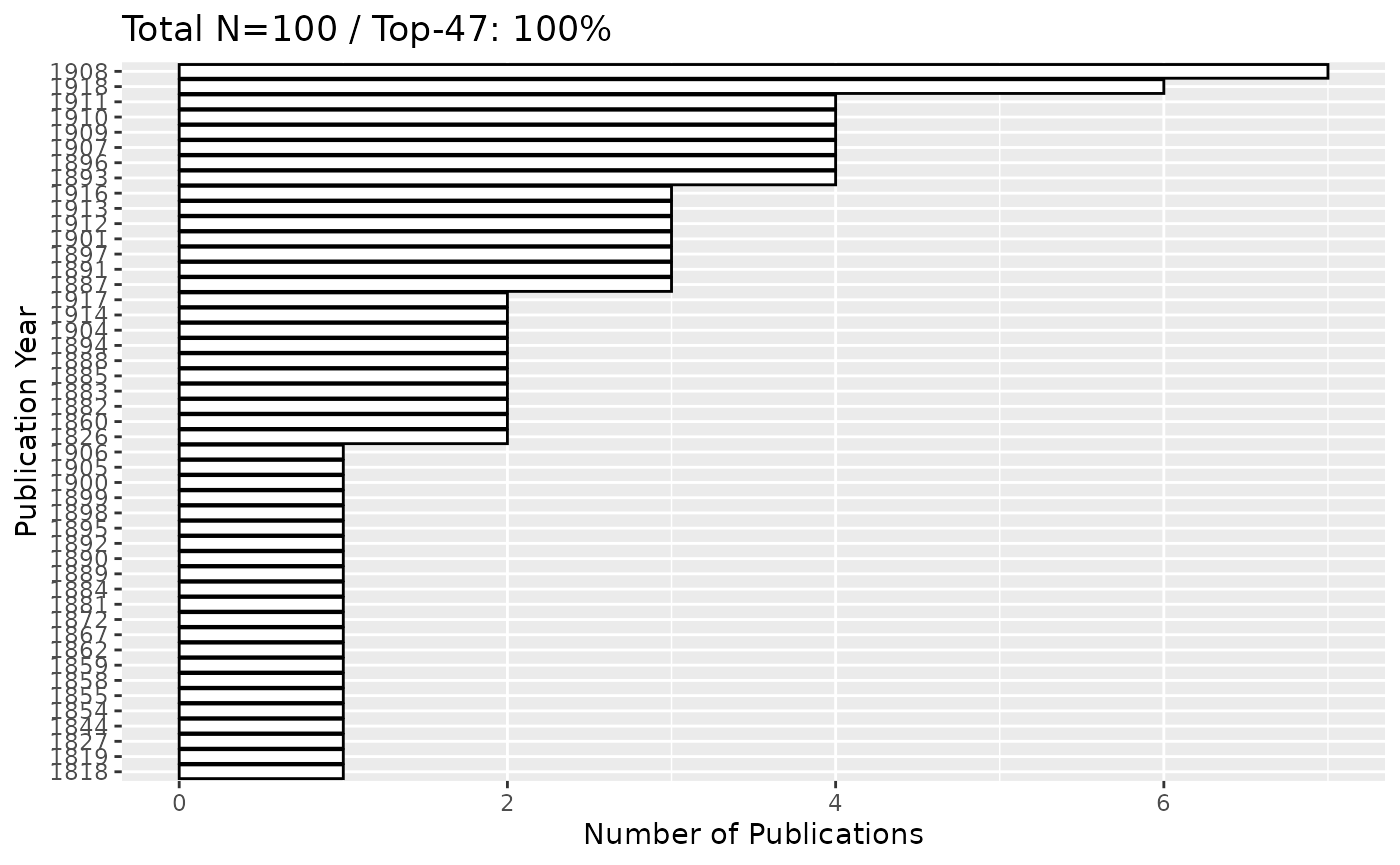
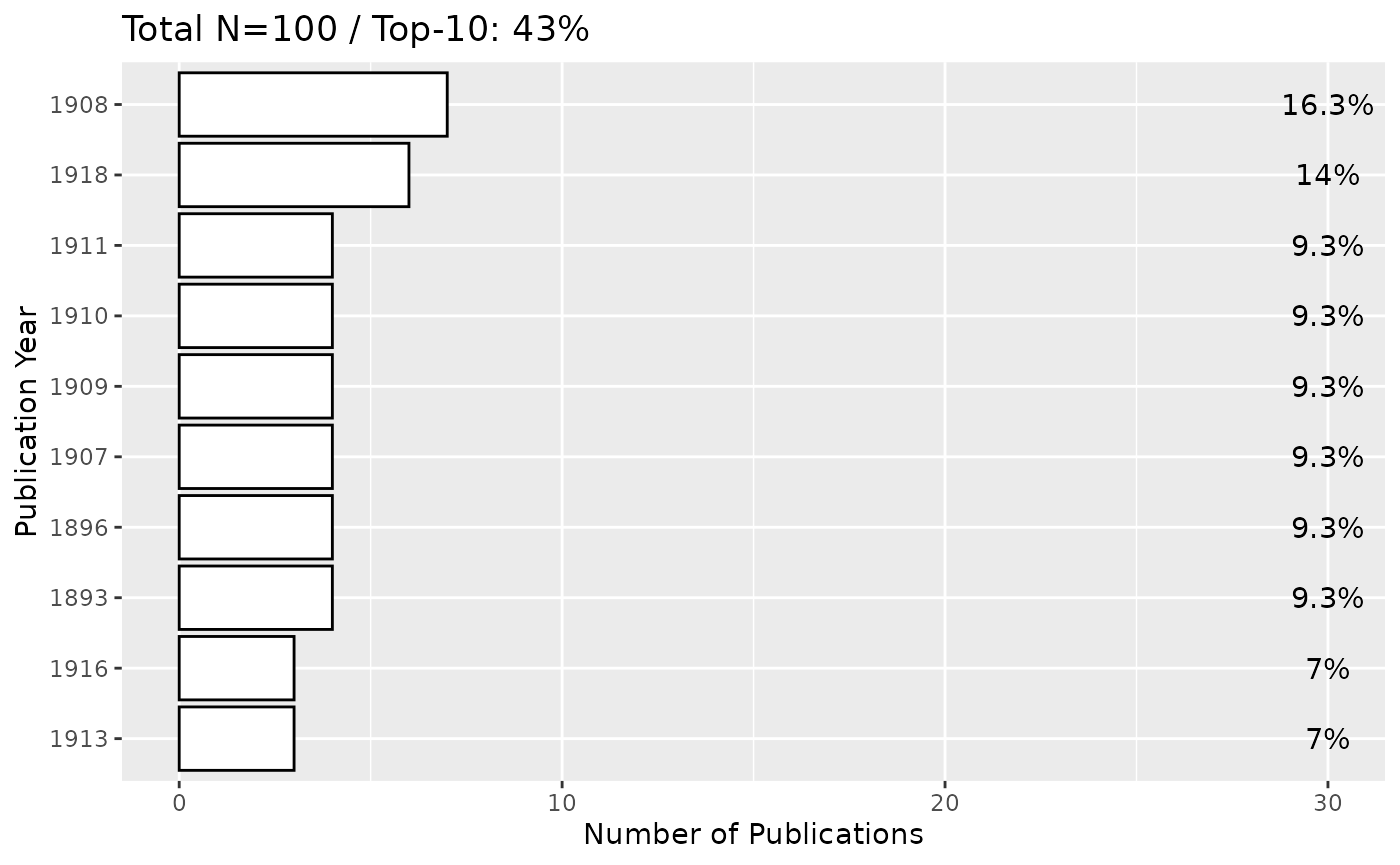
Deploying to gh-pages from @ fennicahub/finna@608575409bd71684d5d398f182947eb09b14cdef 🚀

diff --git a/articles/Fennica.html b/articles/Fennica.html
@@ -169,7 +169,7 @@ and hidden parts</p>
 <span><span class="kw"><a href="https://rdrr.io/r/base/library.html" class="external-link">library</a></span><span class="op">(</span><span class="va"><a href="https://ggplot2.tidyverse.org" class="external-link">ggplot2</a></span><span class="op">)</span></span>
 <span><span class="va">fennica</span> <span class="op">&lt;-</span> <span class="fu"><a href="../reference/search_finna.html">search_finna</a></span><span class="op">(</span><span class="st">"*"</span>,filters <span class="op">=</span> <span class="fu"><a href="https://rdrr.io/r/base/c.html" class="external-link">c</a></span><span class="op">(</span><span class="st">'collection:"FEN"'</span>, <span class="st">'search_daterange_mv:"[1809 TO 1918]"'</span><span class="op">)</span><span class="op">)</span></span>
 <span><span class="va">refined_data</span> <span class="op">&lt;-</span> <span class="fu"><a href="../reference/refine_metadata.html">refine_metadata</a></span><span class="op">(</span><span class="va">fennica</span><span class="op">)</span></span>
-<span><span class="fu"><a href="../reference/top_plot.html">top_plot</a></span><span class="op">(</span><span class="va">refined_data</span>, field <span class="op">=</span> <span class="st">"Year"</span><span class="op">)</span> <span class="op">+</span></span>
+<span><span class="fu"><a href="../reference/top_plot.html">top_plot</a></span><span class="op">(</span><span class="va">refined_data</span><span class="op">$</span><span class="va">Year</span>, field <span class="op">=</span> <span class="st">"Year"</span>,  ntop <span class="op">=</span> <span class="fl">10</span>, show.percentage <span class="op">=</span> <span class="cn">TRUE</span><span class="op">)</span> <span class="op">+</span></span>
 <span>  <span class="fu"><a href="https://ggplot2.tidyverse.org/reference/labs.html" class="external-link">xlab</a></span><span class="op">(</span><span class="st">"Publication Year"</span><span class="op">)</span> <span class="op">+</span>  <span class="co"># Custom X-axis label</span></span>
 <span>  <span class="fu"><a href="https://ggplot2.tidyverse.org/reference/labs.html" class="external-link">ylab</a></span><span class="op">(</span><span class="st">"Number of Publications"</span><span class="op">)</span>  <span class="co"># Custom Y-axis label</span></span></code></pre></div>
 <p><img src="Fennica_files/figure-html/unnamed-chunk-6-1.png" alt="visualize word cloud" width="700"></p>

diff --git a/reference/search_finna.html b/reference/search_finna.html
@@ -124,7 +124,7 @@ The function paginates through the results, fetching records until the specified
     <div class="sourceCode"><pre class="sourceCode r"><code><span class="r-in"><span><span class="va">search_results</span> <span class="op">&lt;-</span> <span class="fu">search_finna</span><span class="op">(</span><span class="st">"sibelius"</span>, sort <span class="op">=</span> <span class="st">"main_date_str desc"</span>, limit <span class="op">=</span> <span class="fl">100</span><span class="op">)</span></span></span>
 <span class="r-wrn co"><span class="r-pr">#&gt;</span> <span class="warning">Warning: </span>Default limit of 100 records is being used. Specify 'limit' argument for more records.</span>
 <span class="r-msg co"><span class="r-pr">#&gt;</span> Total results found: 45188</span>
-<span class="r-msg co"><span class="r-pr">#&gt;</span> Data fetching completed in 0.51 seconds.</span>
+<span class="r-msg co"><span class="r-pr">#&gt;</span> Data fetching completed in 0.54 seconds.</span>
 <span class="r-in"><span><span class="fu"><a href="https://rdrr.io/r/base/print.html" class="external-link">print</a></span><span class="op">(</span><span class="va">search_results</span><span class="op">)</span></span></span>
 <span class="r-out co"><span class="r-pr">#&gt;</span> <span style="color: #949494;"># A tibble: 100 × 10</span></span>
 <span class="r-out co"><span class="r-pr">#&gt;</span>    id                Title Author Year  Language Formats Subjects Library Series</span>

diff --git a/reference/refine_metadata.html b/reference/refine_metadata.html
@@ -100,7 +100,7 @@ Logging Missing Data (Optional): If verbose = TRUE, prints a summary of missing 
 <span class="r-in"><span><span class="va">sibelius_data</span> <span class="op">&lt;-</span> <span class="fu"><a href="search_finna.html">search_finna</a></span><span class="op">(</span><span class="st">"sibelius"</span><span class="op">)</span></span></span>
 <span class="r-wrn co"><span class="r-pr">#&gt;</span> <span class="warning">Warning: </span>Default limit of 100 records is being used. Specify 'limit' argument for more records.</span>
 <span class="r-msg co"><span class="r-pr">#&gt;</span> Total results found: 45188</span>
-<span class="r-msg co"><span class="r-pr">#&gt;</span> Data fetching completed in 0.72 seconds.</span>
+<span class="r-msg co"><span class="r-pr">#&gt;</span> Data fetching completed in 0.43 seconds.</span>
 <span class="r-in"><span><span class="fu">refine_metadata</span><span class="op">(</span><span class="va">sibelius_data</span>, fill_na <span class="op">=</span> <span class="cn">TRUE</span>, verbose <span class="op">=</span> <span class="cn">TRUE</span><span class="op">)</span></span></span>
 <span class="r-msg co"><span class="r-pr">#&gt;</span> No missing values found.</span>
 <span class="r-out co"><span class="r-pr">#&gt;</span> <span style="color: #949494;"># A tibble: 100 × 8</span></span>
